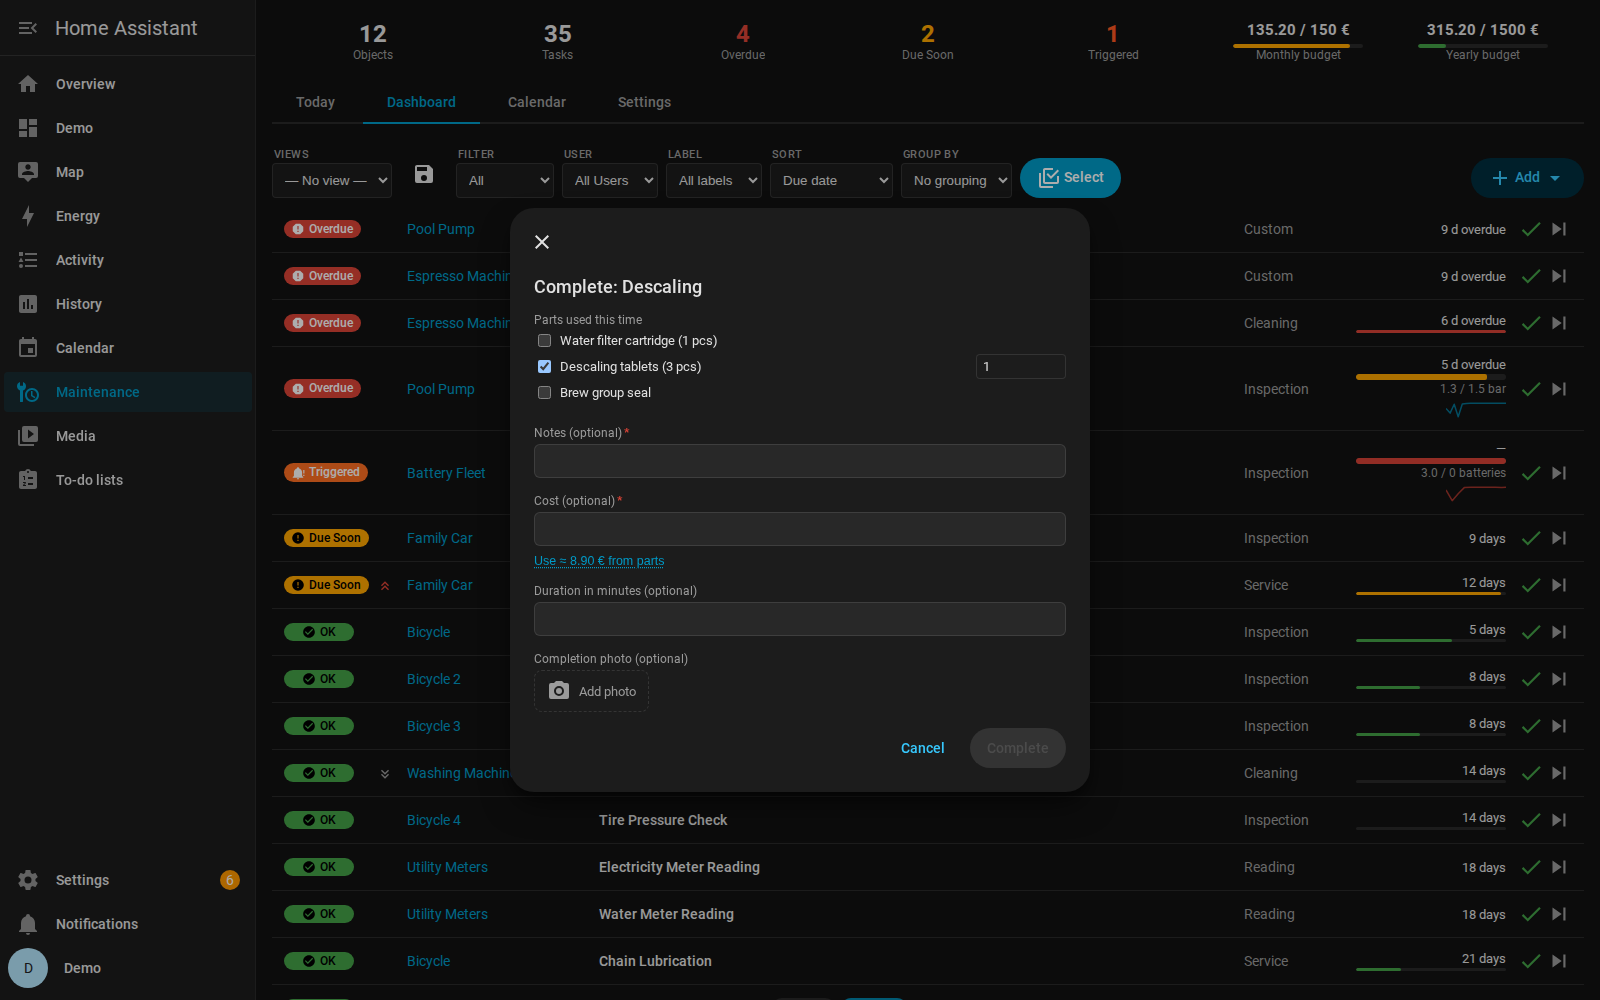
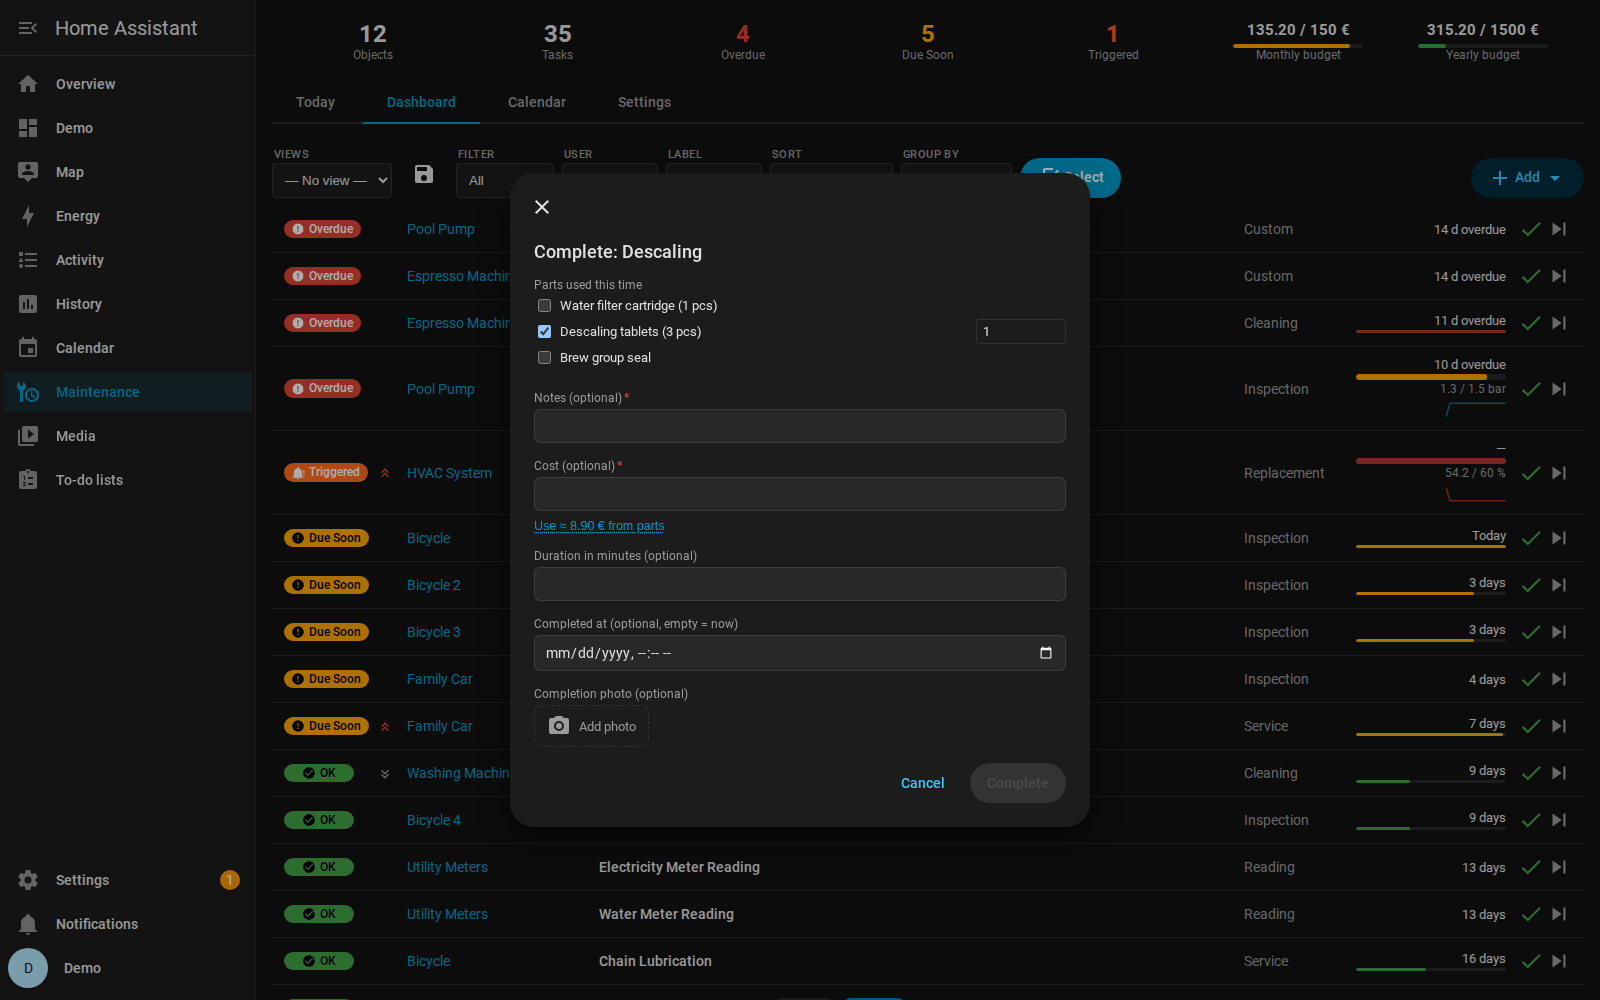
docs: refresh dialog screenshots + prose for the =/≠ and backdate rounds
complete-dialog.png now shows the optional "Completed at" backdate field
(#133), multi-entity-trigger.png the =/≠ threshold limits; compound-trigger
re-shot for consistency. Regenerated against the existing ha-shots demo
seed (no re-seed — the other images stay untouched).

Prose: FEATURES trigger list covers the =/≠ limits and the trigger∧interval
combinator, the complete-dialog description mentions the backdate field,
and the calendar-card section in EXAMPLES no longer claims clicks only
work under the strategy bundle (they open the quick-actions / history-edit
dialogs on any dashboard since 1eaf0a91).

Claude-Session: https://claude.ai/code/session_013kuCGZTtYQDiBSomLhUfq2

diff --git a/docs/FEATURES.md b/docs/FEATURES.md
@@ -105,8 +105,11 @@ documents.
 ![Objects table](images/objects-table.png)
 
 ### Complete Dialog
-Optional notes / cost / duration and a completion photo (camera capture on
-mobile); checklist steps tick off right in the dialog. When the task
+Optional notes / cost / duration, an optional **Completed at** date for
+backfilling work that was done earlier (empty = now; see
+[Events](#events) for how backdated entries behave), and a completion
+photo (camera capture on mobile); checklist steps tick off right in the
+dialog. When the task
 consumes spare parts that carry unit prices, their sum appears as a
 **one-click cost suggestion** under the cost field — following your live
 parts selection, and vanishing the moment you type a cost yourself.
@@ -538,12 +541,13 @@ Pre-fill notes/cost/duration/feedback per task. Scanning the lightning-bolt
 - 47 object templates in 9 categories — Vehicle, Home & HVAC, Household & Routines, Garden & Outdoor, Pool, Appliances, Pets, Tech & IT, Health (car, e-bike, HVAC, ventilation system, fireplace, smoke detectors, bathroom/bedroom/kitchen routines, robot vacuums, espresso machine, RO water filter, irrigation, litter box, aquarium, printer, NAS, wallbox, CPAP, hearing aids, …) — fully localized, curatable via Settings → Template gallery
 
 ### Sensor-Based Triggers
-- **Threshold**: trigger when a sensor value exceeds or falls below a limit (with optional duration)
+- **Threshold**: trigger when a sensor value exceeds or falls below a limit — or equals (`=`) / deviates from (`≠`) a discrete level such as a filter stage or error code (with optional duration)
 - **Counter**: trigger when accumulated value reaches a target (absolute or delta mode)
 - **State change**: trigger after a number of state transitions (e.g., on/off cycles)
 - **Runtime**: trigger after accumulated operating hours (e.g., 500h of compressor runtime)
 - **Compound**: combine multiple conditions with AND/OR logic (e.g., threshold AND runtime)
 - Multi-entity support for all trigger types (any/all entity logic)
+- **Trigger ∧ interval combinator**: a trigger task can also carry a safety interval — by default whichever is met first makes the task due; with the `all` combinator the task only becomes due once the trigger fired *and* the interval elapsed (the interval acts as a minimum age, e.g. "when the sensor says so, but never more often than every 3 months")
 - **Auto-complete on sensor recovery** (2.12.0+, opt-in per task, #53) — when the trigger clears itself (salt refilled, filter swapped, pressure topped up), the task records a completion automatically: `last performed` and the time-between-services statistics stay real without opening the app. Manual completes are unaffected, and a just-completed task never double-records
 - **Entity attribute introspection** — trigger setup shows domain-specific attribute suggestions (e.g., `current_temperature` for climate entities)
 - Automatic entity availability tracking with grace periods

diff --git a/docs/EXAMPLES.md b/docs/EXAMPLES.md
@@ -460,7 +460,7 @@ object_filter: ""                     # "" | "<entry_id>" | "<object name>" — 
                                       #   object_filter: ["Pool Pump", "Family Car"]
 ```
 
-Source icons (clock for time-based, trending-up for sensor-based, with adaptive sparkle), per-event prediction-confidence pills, projected recurrences at 55 % opacity, today-pill highlight, empty-day collapsing in the year view. Clicking an event opens the task editor **in-place** where the dashboard-strategy bundle is loaded to catch it; otherwise the card falls back to deep-linking into the panel on that task.
+Source icons (clock for time-based, trending-up for sensor-based, with adaptive sparkle), per-event prediction-confidence pills, projected recurrences at 55 % opacity, today-pill highlight, empty-day collapsing in the year view. Clicking an event opens the task **quick-actions dialog** in place — on any dashboard, with or without the strategy bundle; in `past_days` mode a click opens the history entry for editing. The card's visual editor is fully localized.
 
 The dashboard strategy's `group_by: calendar` mode wraps four instances of this card (week / fortnight / month / year) as separate views, with the chips hidden because the tab bar already serves as the window selector.
 
